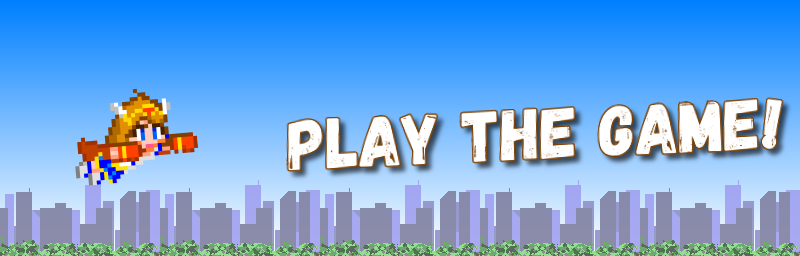
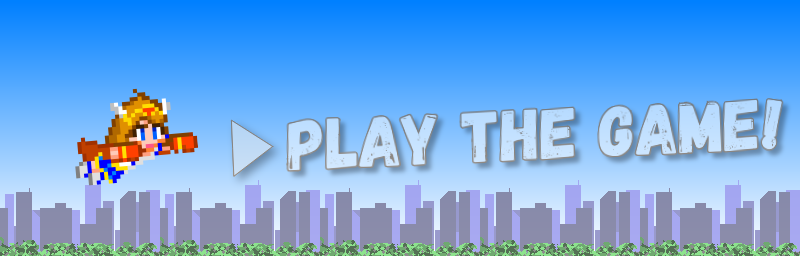
Update: エンター画像に明滅を追加

Changed region(s): [[0.2812, 0.375, 1.0, 0.7188]]

diff --git a/docs/index.html b/docs/index.html
@@ -43,17 +43,30 @@
 	</style>
 
 	<script>
-		function Hover(elem,isHover){
-			const images	= ["./Res/enter01.png","./Res/enter02.png",];
-			if(isHover)	elem.src = images[1];
-			else		elem.src = images[0];
+		let isHovered=false;
+		let idxBlinkImage = 0;
+		function Blink(elem){
+			if(isHovered)	return;
+			const images	= ["./Res/enter00.png","./Res/enter01.png",];
+			++idxBlinkImage;
+			if(images.length <= idxBlinkImage)	idxBlinkImage=0;
+			elem.src = images[idxBlinkImage];
 		}
+		function Hover(elem,isHover){
+			isHovered	= isHover;
+			const image	= "./Res/enter02.png";
+			if(isHover)	elem.src = image;
+			else		Blink(elem);
+		}
+		window.onload	= ()=>{
+			setInterval(Blink,500,document.getElementById("enterImage"));
+		};
 	</script>
 </head>
 <body>
 
 	<h1>メテオストライカー桃子 / MeteorStriker Momoko</h1>
-	<a href="./game.html"><img id="enterImage" src="./Res/enter01.png" onmouseover="Hover(this,true)" onmouseout="Hover(this,false)"></a>
+	<a href="./game.html"><img id="enterImage" src="./Res/enter00.png" onmouseover="Hover(this,true)" onmouseout="Hover(this,false)"></a>
 
 	<h2>はじめに / Introduction</h2>
 	<p>
@@ -94,6 +107,7 @@
 
 	<h2>作った人 / Developer</h2>
 	<p>
+		<img src="./Res/nnw.gif">
 		R.F.D./温泉ねずみ
 		<a href="https://twitter.com/R_F_D">[Twitter]</a>
 		<a href="https://github.com/R-F-D">[GitHub]</a>

diff --git a/index.prod.html b/index.prod.html
@@ -43,17 +43,30 @@
 	</style>
 
 	<script>
-		function Hover(elem,isHover){
-			const images	= ["./Res/enter01.png","./Res/enter02.png",];
-			if(isHover)	elem.src = images[1];
-			else		elem.src = images[0];
+		let isHovered=false;
+		let idxBlinkImage = 0;
+		function Blink(elem){
+			if(isHovered)	return;
+			const images	= ["./Res/enter00.png","./Res/enter01.png",];
+			++idxBlinkImage;
+			if(images.length <= idxBlinkImage)	idxBlinkImage=0;
+			elem.src = images[idxBlinkImage];
 		}
+		function Hover(elem,isHover){
+			isHovered	= isHover;
+			const image	= "./Res/enter02.png";
+			if(isHover)	elem.src = image;
+			else		Blink(elem);
+		}
+		window.onload	= ()=>{
+			setInterval(Blink,500,document.getElementById("enterImage"));
+		};
 	</script>
 </head>
 <body>
 
 	<h1>メテオストライカー桃子 / MeteorStriker Momoko</h1>
-	<a href="./game.html"><img id="enterImage" src="./Res/enter01.png" onmouseover="Hover(this,true)" onmouseout="Hover(this,false)"></a>
+	<a href="./game.html"><img id="enterImage" src="./Res/enter00.png" onmouseover="Hover(this,true)" onmouseout="Hover(this,false)"></a>
 
 	<h2>はじめに / Introduction</h2>
 	<p>
@@ -94,6 +107,7 @@
 
 	<h2>作った人 / Developer</h2>
 	<p>
+		<img src="./Res/nnw.gif">
 		R.F.D./温泉ねずみ
 		<a href="https://twitter.com/R_F_D">[Twitter]</a>
 		<a href="https://github.com/R-F-D">[GitHub]</a>
